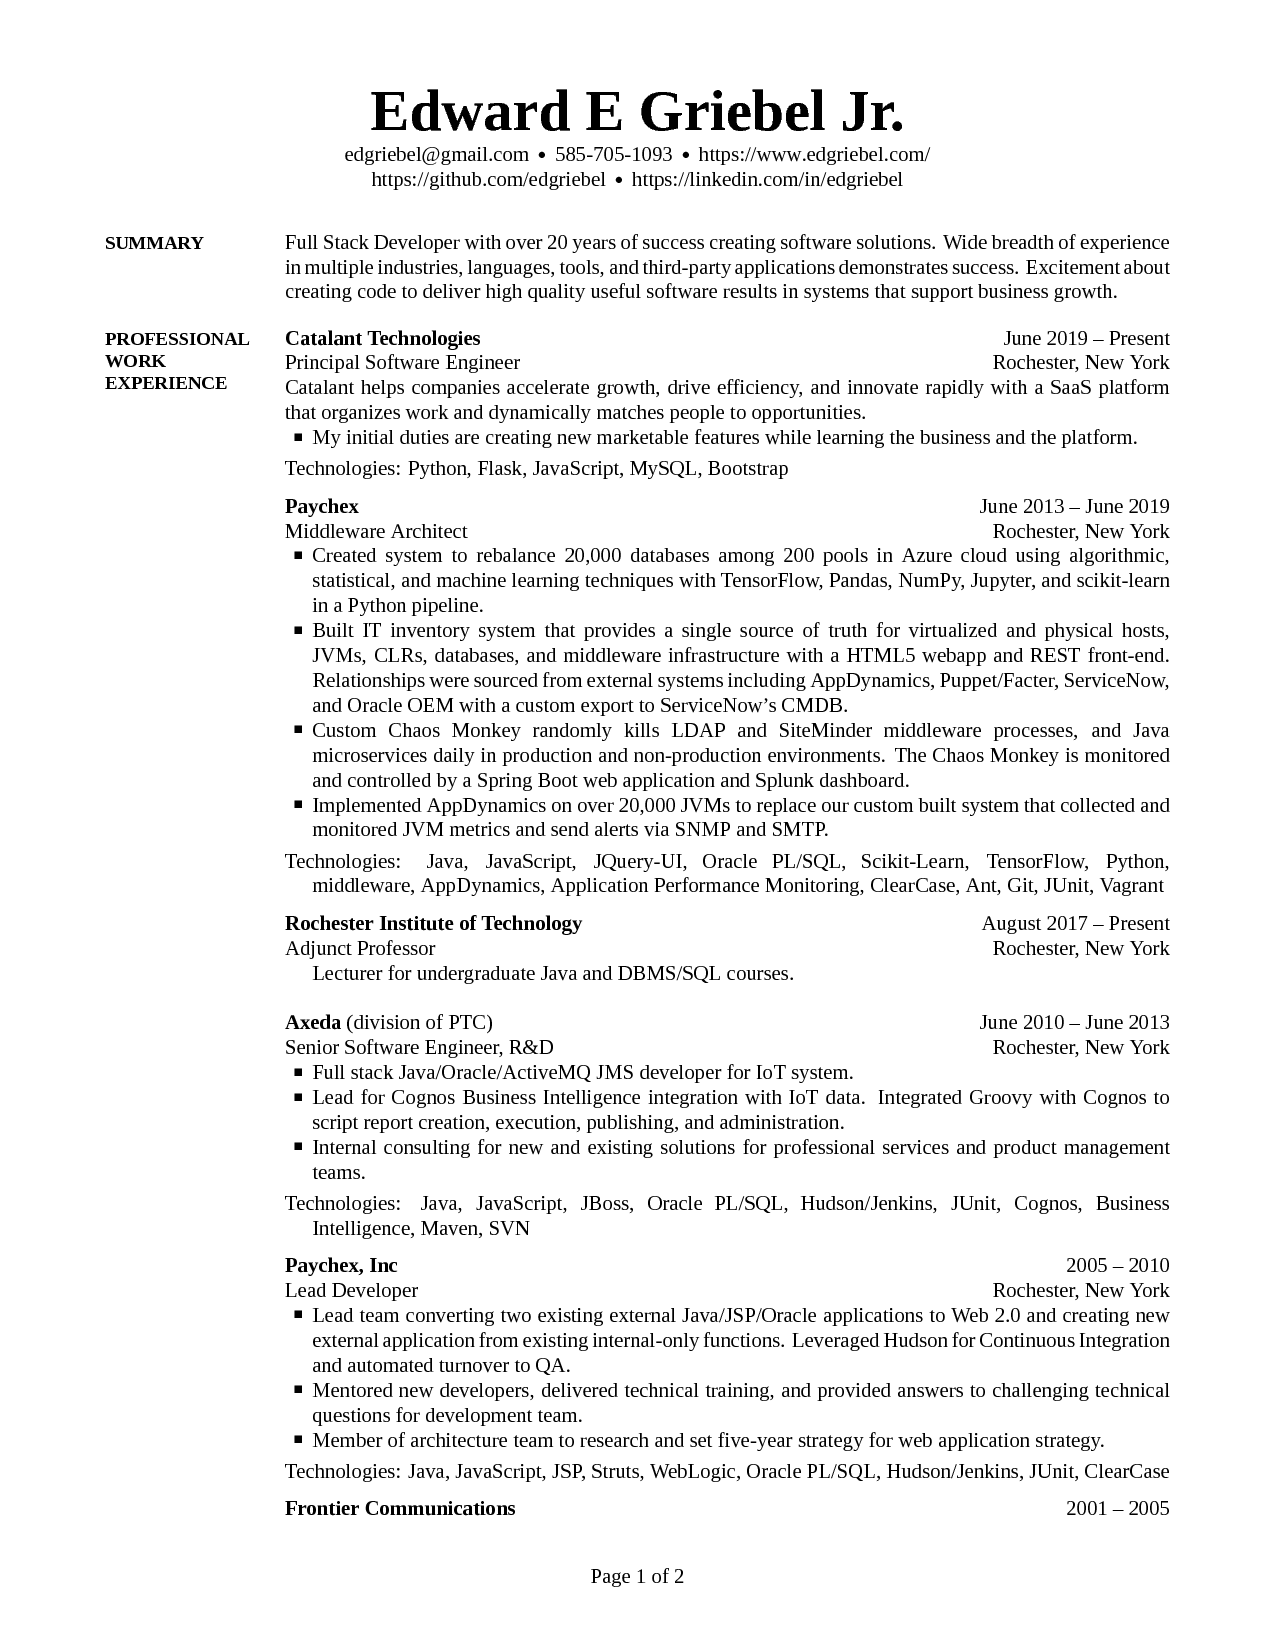
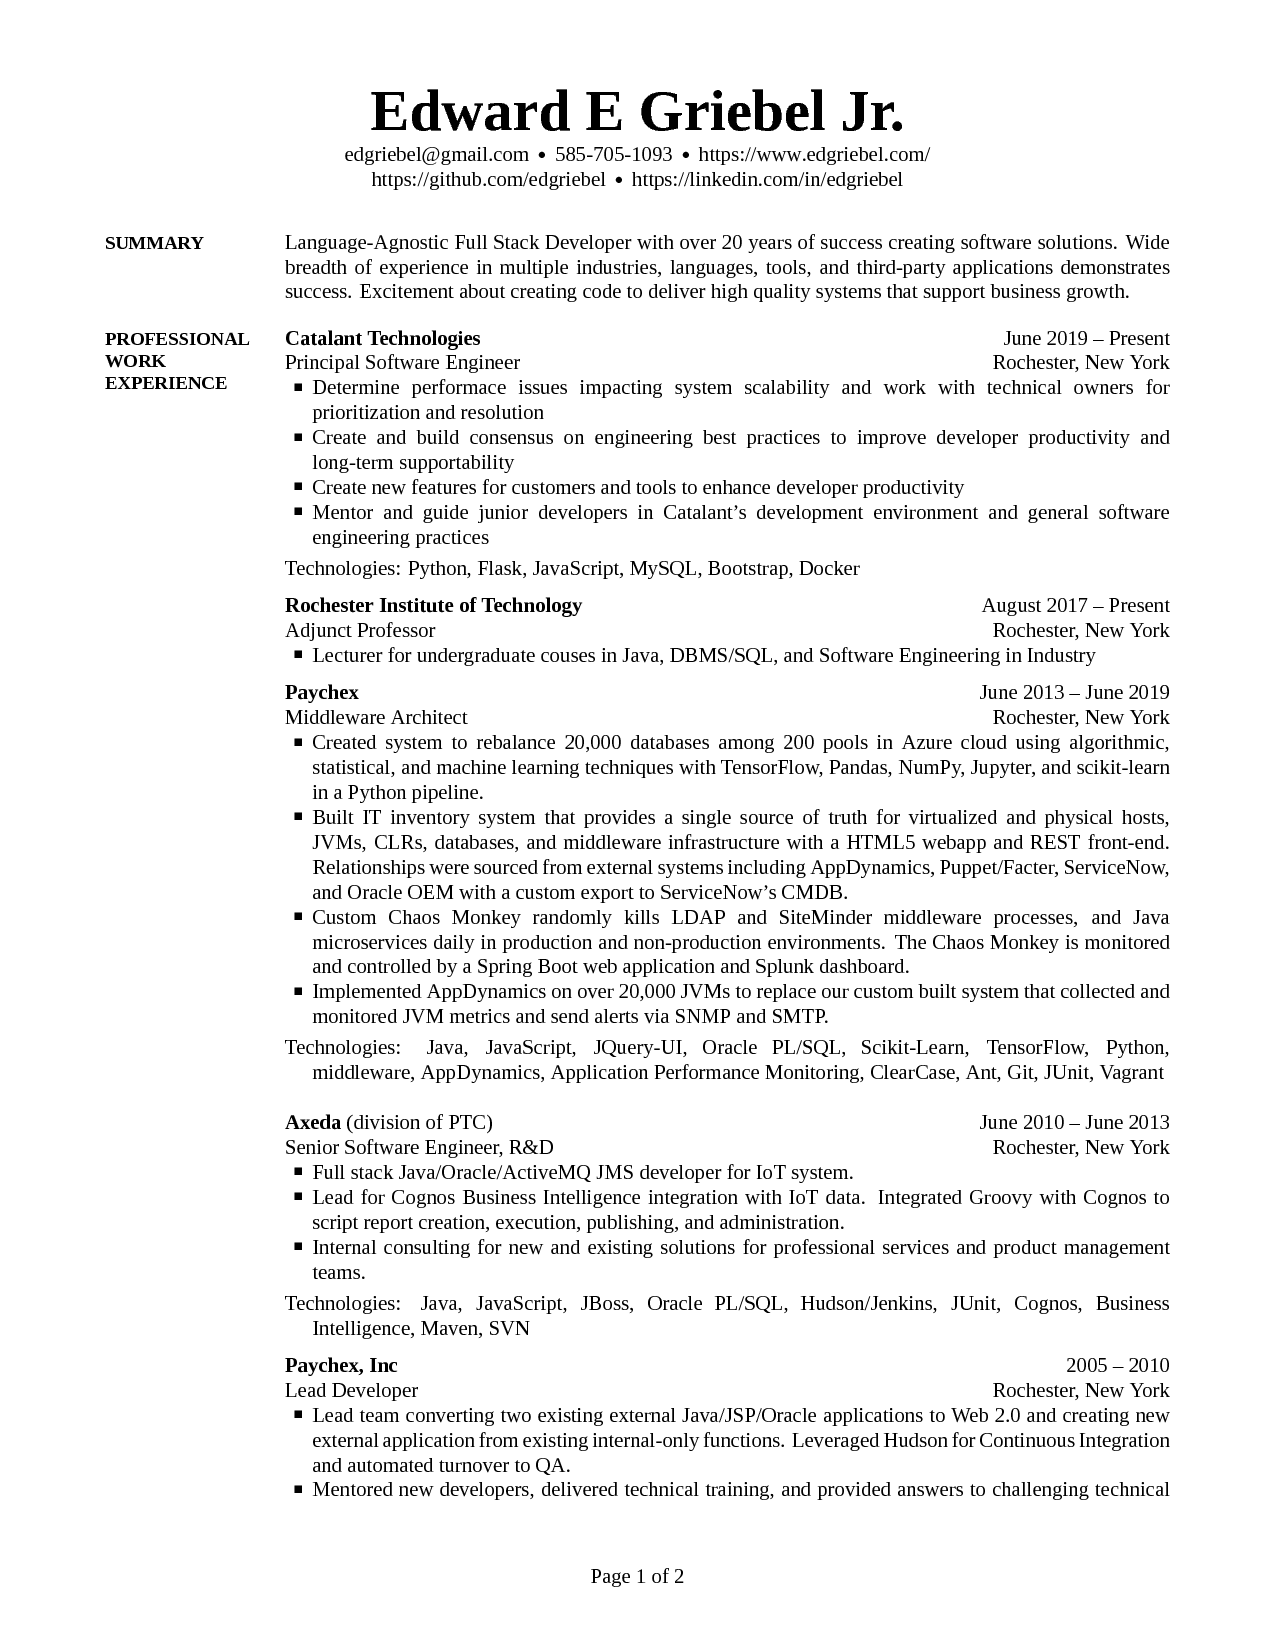
Update Catalant, Add GATech, move Adjunct

Changed region(s): [[0.2141, 0.2164, 0.9176, 0.9273], [0.2141, 0.1236, 0.9176, 0.1855]]

diff --git a/Ed_Griebel_CV.tex b/Ed_Griebel_CV.tex
@@ -91,9 +91,9 @@ breaklinks}
 \begin{Body}
 \Section{Summary}{Summary}{PDF:Summary}
 
-Full Stack Developer with over 20 years of success creating software solutions.
+Language-Agnostic Full Stack Developer with over 20 years of success creating software solutions.
 Wide breadth of experience in multiple industries, languages, tools, and third-party applications demonstrates success.
-Excitement about creating code to deliver high quality useful software results in systems that support business growth.
+Excitement about creating code to deliver high quality systems that support business growth.
 \iffalse
 \Entry
 Full Stack Java architect, developer, and consultant, specializing in Java/Oracle/JavaScript
@@ -123,14 +123,43 @@ Principal Software Engineer
 Rochester, New York
 
 \begin{Detail}
+\iffalse
 Catalant helps companies accelerate growth, drive efficiency, and innovate rapidly with a SaaS platform that organizes work and dynamically matches people to opportunities. 
+\fi
 
 \BulletItem
-My initial duties are creating new marketable features while learning the business and the platform.
+Determine performace issues impacting system scalability and work with technical owners for prioritization and resolution
+\BulletItem
+Create and build consensus on engineering best practices to improve developer productivity and long-term supportability
+\BulletItem
+Create new features for customers and tools to enhance developer productivity
+\BulletItem
+Mentor and guide junior developers in Catalant's development environment and general software engineering practices
+
 
 \Gap
-Technologies: Python, Flask, JavaScript, MySQL, Bootstrap
+Technologies: Python, Flask, JavaScript, MySQL, Bootstrap, Docker
 
+\end{Detail}
+
+\BigGap
+
+\Entry
+\href{http://ist.rit.edu/}
+{\textbf{Rochester Institute of Technology}}
+\hfill
+\DatestampYM{2017}{08} --
+Present
+
+%%\Gap
+%%\BulletItem
+Adjunct Professor
+\hfill 
+Rochester, New York
+
+\begin{Detail}
+\BulletItem
+Lecturer for undergraduate couses in Java, DBMS/SQL, and Software Engineering in Industry
 \end{Detail}
 
 \BigGap
@@ -164,26 +193,6 @@ Implemented AppDynamics on over 20,000 JVMs to replace our custom built system t
 
 \Gap
 Technologies: Java, JavaScript, JQuery-UI, Oracle PL/SQL, Scikit-Learn, TensorFlow, Python, middleware, AppDynamics, Application Performance Monitoring, ClearCase, Ant, Git, JUnit, Vagrant
-\end{Detail}
-
-\BigGap
-
-\Entry
-\href{http://ist.rit.edu/}
-{\textbf{Rochester Institute of Technology}}
-\hfill
-\DatestampYM{2017}{08} --
-Present
-
-%%\Gap
-%%\BulletItem
-Adjunct Professor
-\hfill 
-Rochester, New York
-
-\begin{Detail}
-\Item
-Lecturer for undergraduate Java and DBMS/SQL courses.
 \end{Detail}
 
 \BigGap
@@ -387,6 +396,53 @@ Technologies: Sybase, ksh
 \fi
 
 
+%%%%%%%%%%%%%%%
+%% EDUCATION %%
+%%%%%%%%%%%%%%%
+
+\Section
+{Education}
+{Education}
+{PDF:Education}
+
+\Entry
+\href{https://gatech.edu}
+{\textbf{Georgia Institute of Technology}}
+\hfill Atlanta, Georgia
+
+M.S. in Computer Science
+\hfill 
+\textit{Expected December 2022}
+
+\BulletItem
+Concentrations in Computing Systems and Machine Learning
+
+\Gap
+
+\Entry
+\href{http://www.bucknell.edu/}
+{\textbf{Bucknell University}}
+\hfill Lewisburg, Pennsylvania
+
+%%\Gap
+%%\BulletItem
+B.S. in Computer Engineering
+\iffalse
+\hfill
+\DatestampYM{1988}{09} --
+\DatestampYM{1992}{06}
+\fi
+\begin{Detail}
+\BulletItem
+Senior design project creating reference implementation of DHCP protocol for RFCs 1531 and 1534
+%%\BulletItem
+%%Summer research internship in digital image processing
+\BulletItem
+Concentrations in Digital Electronics and Geology
+
+%% Technologies: Computer Science, C, VAX assembly, DHCP, TCP-IP, Digital Electronics
+\end{Detail}
+
 %%%%%%%%%%%%
 %% CERTIFICATIONS %%
 %%%%%%%%%%%%
@@ -447,7 +503,7 @@ After interviewing a number of students, our team brought on a college student f
 
 \BigGap
 \Entry
-\textbf{Axeda Reporting -- A Guide to Service Intelligence} (Presentation)
+\textbf{Axeda Reporting -- A Guide to Service Intelligence} (Trade Conference)
 \hfill
 \DatestampYMD{2013}{05}{08}
 
@@ -537,39 +593,6 @@ Awarded by AppDynamics to the company that was able to quickly deploy the AppDyn
 {https://www.amazon.com/Java-Concurrency-Cookbook-FernandezJavier/dp/1849687889}
 {Gonzalez, Javier Fernandez. \textit{Java 7 Concurrency Cookbook}, Packt Publishing, 2012}
 \fi
-
-%%%%%%%%%%%%%%%
-%% EDUCATION %%
-%%%%%%%%%%%%%%%
-
-\Section
-{Education}
-{Education}
-{PDF:Education}
-
-\Entry
-\href{http://www.bucknell.edu/}
-{\textbf{Bucknell University}}
-\hfill Lewisburg, Pennsylvania
-
-%%\Gap
-%%\BulletItem
-B.S. in Computer Engineering
-\iffalse
-\hfill
-\DatestampYM{1988}{09} --
-\DatestampYM{1992}{06}
-\fi
-\begin{Detail}
-\BulletItem
-Senior design project creating reference implementation of DHCP protocol for RFCs 1531 and 1534
-%%\BulletItem
-%%Summer research internship in digital image processing
-\BulletItem
-Concentrations in Digital Electronics and Geology
-
-%% Technologies: Computer Science, C, VAX assembly, DHCP, TCP-IP, Digital Electronics
-\end{Detail}
 
 %%%%%%%%%%%%%%%%%%%%%%
 %% OTHER ACTIVITIES %%
